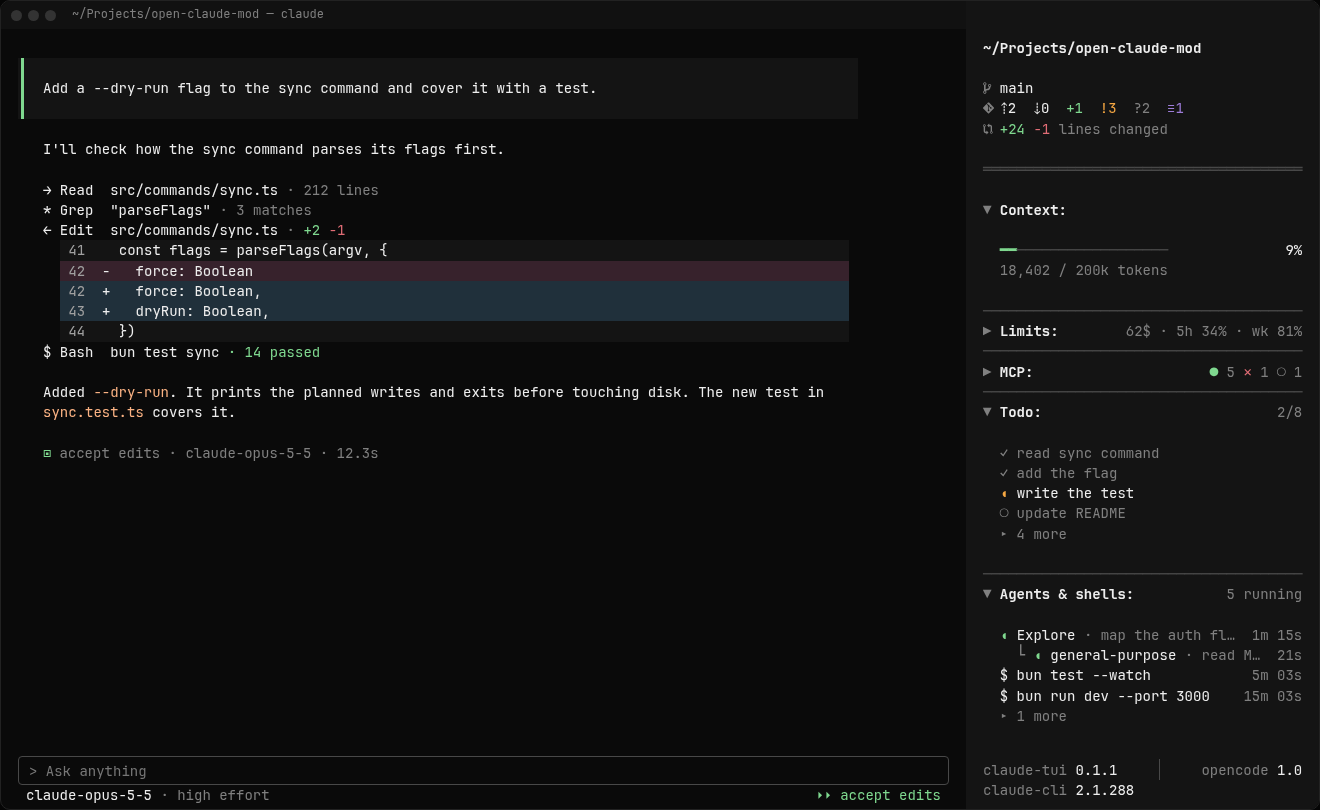
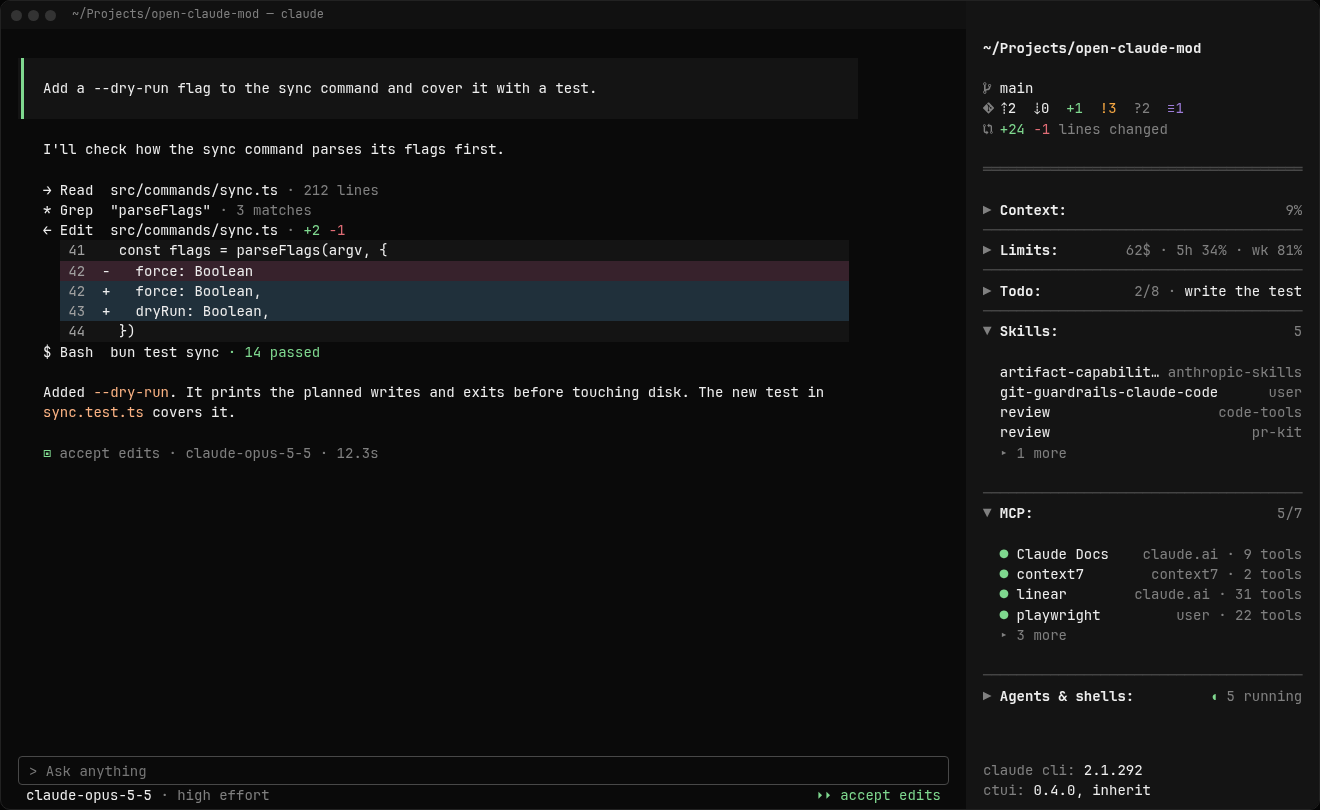
docs: renders and README for ctui 0.4.0
Refs: #178

diff --git a/docs/design/sidebar.html b/docs/design/sidebar.html
@@ -18,6 +18,8 @@
   with 1 blank row on each side parts the git header from the sections. In
   the header, 1 blank row parts the path from the git rows, each led by its
   Devicons glyph in muted: U+E725 branch, U+E702 changeset, U+E728 lines.
+  At the Sidebar's 42 columns the footer takes two rows: `claude cli: <v>`,
+  then `ctui: <v>, <Theme name>`.
 -->
 <html lang="en">
 <head>
@@ -102,7 +104,6 @@
   .gap { height: var(--row); }
   .indent { padding-left: calc(2 * var(--col)); }
   .more { text-align: right; }
-  .rule { position: absolute; left: 176px; margin-top: -0.5px; width: 1px; height: 21px; background: var(--faint); }
 </style>
 </head>
 <body>
@@ -111,8 +112,8 @@
   // sections window overflows into `↓ more`.
   const RENDERS = {
     1: { name: 'all-folded', expanded: [] },
-    2: { name: 'some-folded', expanded: ['context', 'todo', 'agents'] },
-    3: { name: 'all-expanded', expanded: ['context', 'limits', 'mcp', 'todo', 'agents'], lists: ['mcp', 'todo'], more: true },
+    2: { name: 'some-folded', expanded: ['skills', 'mcp'] },
+    3: { name: 'all-expanded', expanded: ['context', 'limits', 'todo', 'skills', 'mcp', 'agents'], more: true },
   }
 
   const span = (cls, text) => `<span class="${cls}">${text}</span>`
@@ -148,20 +149,6 @@
       ],
     },
     {
-      id: 'mcp', title: 'MCP',
-      summary: `${span('g', '●')}${span('m', ' 5 ')}${span('r', '✕')}${span('m', ' 1 ○ 1')}`,
-      count: span('m', '5/7'),
-      list: [
-        split(`${span('g', '●')} playwright`, span('m', '22 tools')),
-        split(`${span('g', '●')} Claude Docs`, span('m', '9 tools')),
-        split(`${span('r', '✕')} sentry`, span('r', 'failed')),
-        split(`${span('g', '●')} context7`, span('m', '2 tools')),
-        split(`${span('g', '●')} linear`, span('m', '31 tools')),
-        split(`${span('g', '●')} postgres`, span('m', '6 tools')),
-        split(`${span('m', '○')} github`, span('m', 'off')),
-      ],
-    },
-    {
       id: 'todo', title: 'Todo',
       summary: `${span('m', '2/8 · ')}write the test`,
       count: span('m', '2/8'),
@@ -174,6 +161,34 @@
         row(span('m', '○ check Windows paths')),
         row(span('m', '○ run full test suite')),
         row(span('m', '○ write changelog entry')),
+      ],
+    },
+    {
+      id: 'skills', title: 'Skills',
+      summary: span('m', '5'),
+      count: span('m', '5'),
+      // A–Z by name, then source; a long name truncates, the source never does.
+      list: [
+        split('artifact-capabilit…', span('m', 'anthropic-skills')),
+        split('git-guardrails-claude-code', span('m', 'user')),
+        split('review', span('m', 'code-tools')),
+        split('review', span('m', 'pr-kit')),
+        split('tdd', span('m', 'user')),
+      ],
+    },
+    {
+      id: 'mcp', title: 'MCP',
+      summary: `${span('g', '●')}${span('m', ' 5 ')}${span('r', '✕')}${span('m', ' 1 ○ 1')}`,
+      count: span('m', '5/7'),
+      // A–Z, off rows last; the source and its · muted, the status in its role.
+      list: [
+        split(`${span('g', '●')} Claude Docs`, span('m', 'claude.ai · 9 tools')),
+        split(`${span('g', '●')} context7`, span('m', 'context7 · 2 tools')),
+        split(`${span('g', '●')} linear`, span('m', 'claude.ai · 31 tools')),
+        split(`${span('g', '●')} playwright`, span('m', 'user · 22 tools')),
+        split(`${span('g', '●')} postgres`, span('m', 'project · 6 tools')),
+        split(`${span('r', '✕')} sentry`, `${span('m', 'user · ')}${span('r', 'down')}`),
+        split(`${span('m', '○')} github`, span('m', 'user · off')),
       ],
     },
     {
@@ -272,8 +287,8 @@
           ${render.more ? row(span('m', '↓ more'), 'more') : ''}
           <div class="fill"></div>
           ${row('')}
-          ${split(`${span('m', 'claude-tui')} 0.1.1<i class="rule"></i>`, `${span('m', 'opencode')} 1.0`)}
-          ${row(`${span('m', 'claude-cli')} 2.1.288`)}
+          ${row(`${span('m', 'claude cli:')} 2.1.292`)}
+          ${row(`${span('m', 'ctui:')} 0.4.0, inherit`)}
         </div></div>
       </div>`
   }

diff --git a/docs/testing/live-checks.md b/docs/testing/live-checks.md
@@ -144,7 +144,7 @@ Run each row in fullscreen and again on the main screen (`--settings '{"tui":"de
 
 | Setup | Action | Expected |
 |---|---|---|
-| `settings.json` `pluginConfigs` for ctui holding `"git_enable": false` and `"versions_enable": false` from an earlier ctui | Start a session, look at the Sidebar, then open `/config` | The session starts with no ctui error; the git header and the footer draw. `/config` lists no Git header or Versions footer row. |
+| `settings.json` `pluginConfigs` for ctui holding the `git` header's and `versions` footer's old `<id>_enable` keys set to `false` by an earlier ctui | Start a session, look at the Sidebar, then open `/config` | The session starts with no ctui error; the git header and the footer draw. `/config` lists no Git header or Versions footer row. |
 | `/config`: Sidebar order set to `mcp, todo` | Look at the Sidebar | After the reload the sections read MCP, Todo, Context, Limits, Skills, Agents & shells, between the unchanged header and footer. |
 | Fullscreen, Sidebar docked | Run `/ctui`, pick `Plugins ›` | `ctui › Plugins`: one row per section in Sidebar order, `✓ Context  ›` and so on, Skills included, no git header or versions footer; under them `enter settings · x: on/off · k: up · j: down · esc back`. The first row has the ring. |
 | The previous row | Press Down twice, then `x` | One `● ctui: options changed — reloaded` row; the third section turns `✗` and leaves the Sidebar behind the menu. The menu stays open with the ring on that row. `x` again turns it back. |
@@ -155,7 +155,7 @@ Run each row in fullscreen and again on the main screen (`--settings '{"tui":"de
 | The previous row | On `Start folded` press Enter; on `Cost` press Enter three times | Each Enter prints one reload row and keeps the ring on its row. `Start folded` reads `on`; Limits in the Sidebar stays expanded until a new session. `Cost` steps `on`, `off`, `auto`. |
 | The previous row | In the field type `abc`, Enter; then clear it, type `-5`, Enter; then clear it, type `250`, Enter | `abc`: a toast `Can't set the monthly cost: "100abc" isn't a number`, no reload row, and the field shows `100` again with the ring. `-5`: a toast with the engine's reason, the field shows `100`. `250`: one reload row, the field shows `250` with the ring, and the cost row's limit reads `of 250$`. |
 | The previous row | Open Todo's and Agents & shells' screens; press Enter on `Task tools`, then on `Toasts` | Todo lists `Start folded` and `Task tools`, Agents & shells `Start folded` and `Toasts`; each Enter flips its value with one reload row. |
-| Sidebar docked, `/theme` on built-in `dark` | Type `/` and look for ctui | The typeahead lists `/ctui` with its description and no `(ctui)` tag; no `/ctui:theme`. |
+| Sidebar docked, `/theme` on built-in `dark` | Type `/` and look for ctui | The typeahead lists `/ctui` with its description and no `(ctui)` tag, and no other ctui command. |
 | The previous row | Run `/ctui themes` | A focused pane docks as a tab over the Sidebar, as wide as the Sidebar: `ctui`, then `Plugins ›` and `Themes ›`. The text after `/ctui` changes nothing. No transcript row. |
 | The previous row | Pick `Themes ›` | `ctui › Themes`, a focused filter field, then 23 rows: `inherit`, then the Themes by name A–Z (`Catppuccin` … `White`), with `inherit` selected. |
 | The previous row | Type `ever`, press Down, pick `Everforest` | Each keystroke narrows the list; Down moves into it. The pick prints one `● ctui: options changed — reloaded` row and no `⎿ ctui:` line. The menu stays open on Themes with the filter `ever` and the keys; the Sidebar behind it recolors to Everforest's (`text` `#d3c6aa`, `inactive` `#918c7e`); the transcript keeps `dark`. |

diff --git a/docs/spec/v0.1.md b/docs/spec/v0.1.md
@@ -1,5 +1,7 @@
 # ctui v0.1 build spec
 
+> Superseded in part by ctui 0.4.0 (#168): the one `/ctui` menu replaced the `/ctui:*` commands, and the `git` header and `versions` footer lost their enable settings. The text below records the earlier state.
+
 This spec covers ctui v0.1 for the terminal: the **Sidebar** with all seven **Sidebar plugins**, the agent and shell toasts, `/ctui:theme`, `/ctui:plugins:enable|disable`, and the main-column skin from the renders in `docs/design/`. It targets Claude Code 2.1.288. It came out of the map [#3](https://github.com/a1exk-dev/claude-tui/issues/3) and its closed tickets.
 
 `MEMORY.md` holds the decisions, and this spec does not repeat them. Each slice below names the `MEMORY.md` entries it applies, by heading. This spec adds the build order, the module layout, the parts no ticket covered (the `git`, `context`, `limits` and `versions` Sidebar plugins, and the look of each row), the test plan and the known differences. If this spec and `MEMORY.md` disagree, stop and ask the human.

diff --git a/docs/agents/research/claude-code-plugin-mods-structure.md b/docs/agents/research/claude-code-plugin-mods-structure.md
@@ -1,5 +1,7 @@
 # Claude Code plugin and mod structure, and a repo layout for claude-tui
 
+> Superseded in part by ctui 0.4.0 (#168): the one `/ctui` menu replaced the `/ctui:*` commands, and the `git` header and `versions` footer lost their enable settings. The text below records the earlier state.
+
 > Researched 2026-10-03 against Claude Code **2.1.288** (`claude --version`).
 >
 > Source keys used below:
